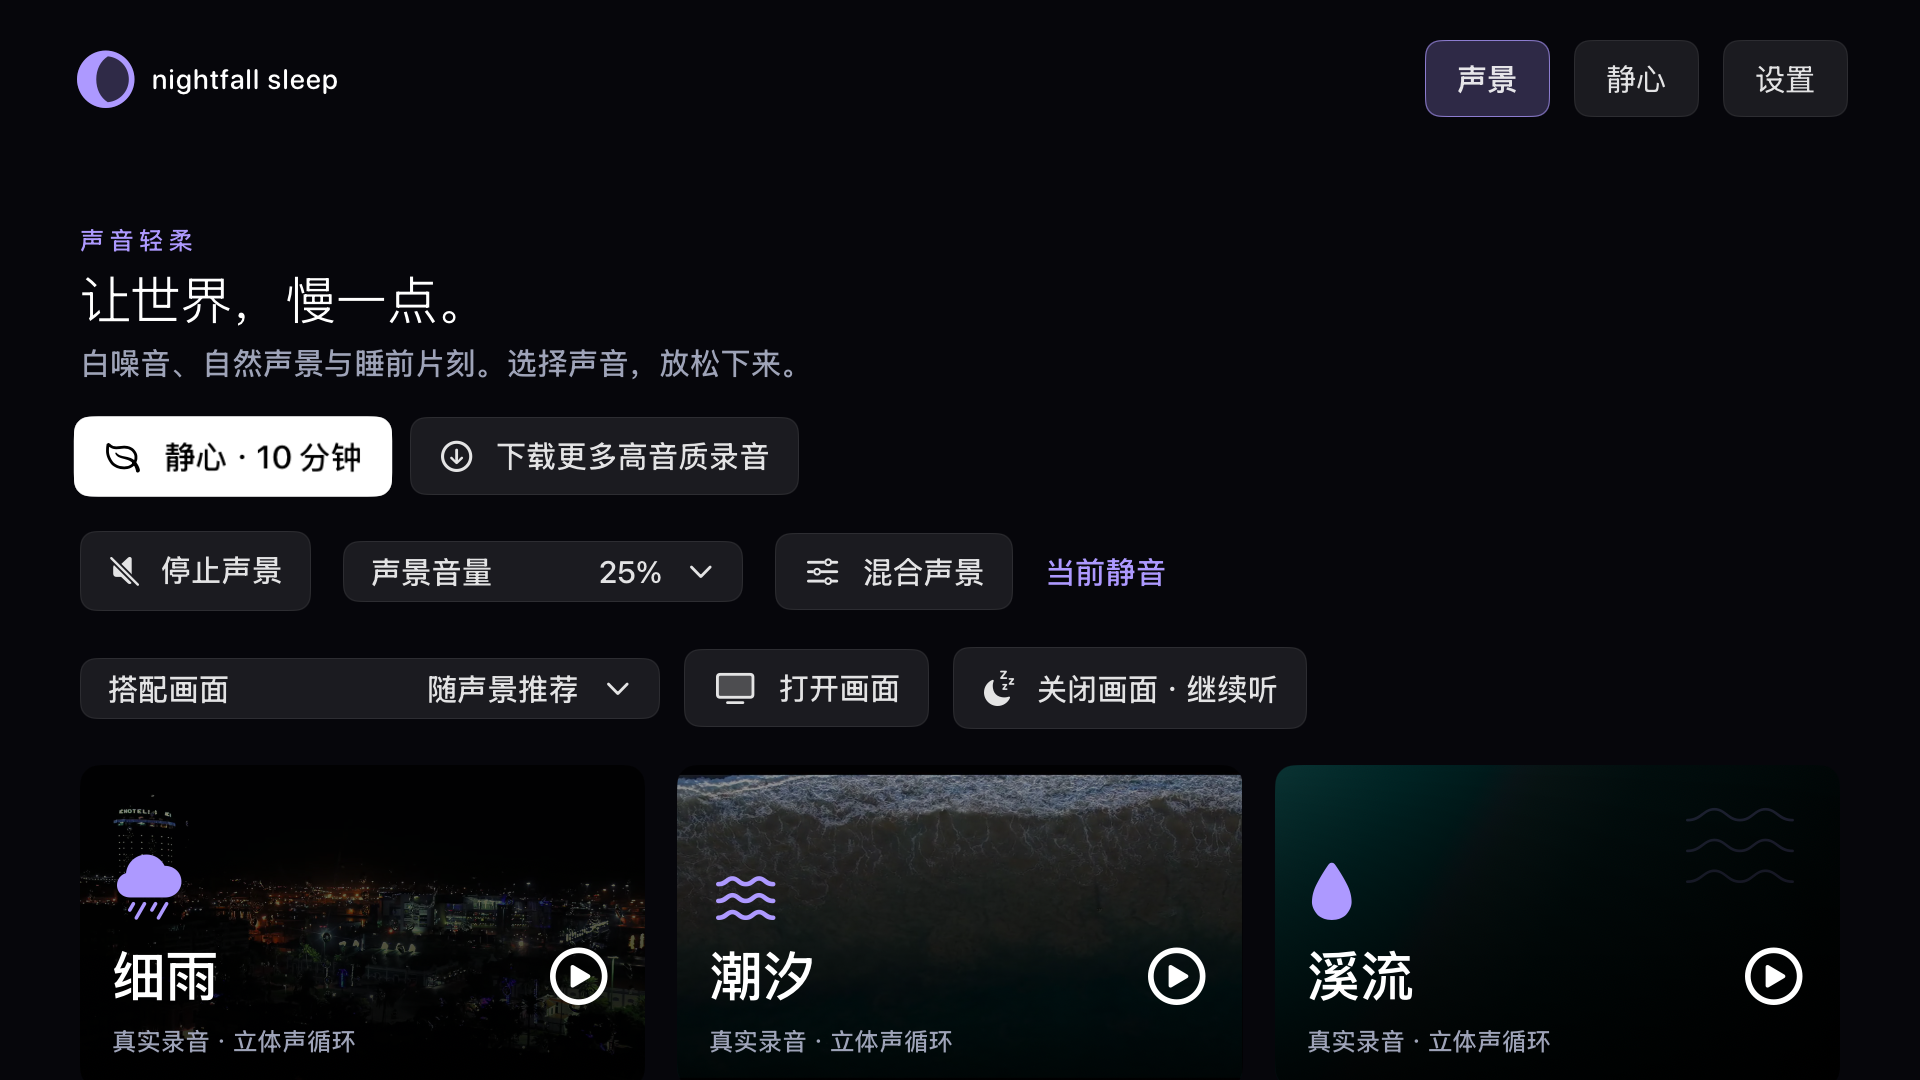
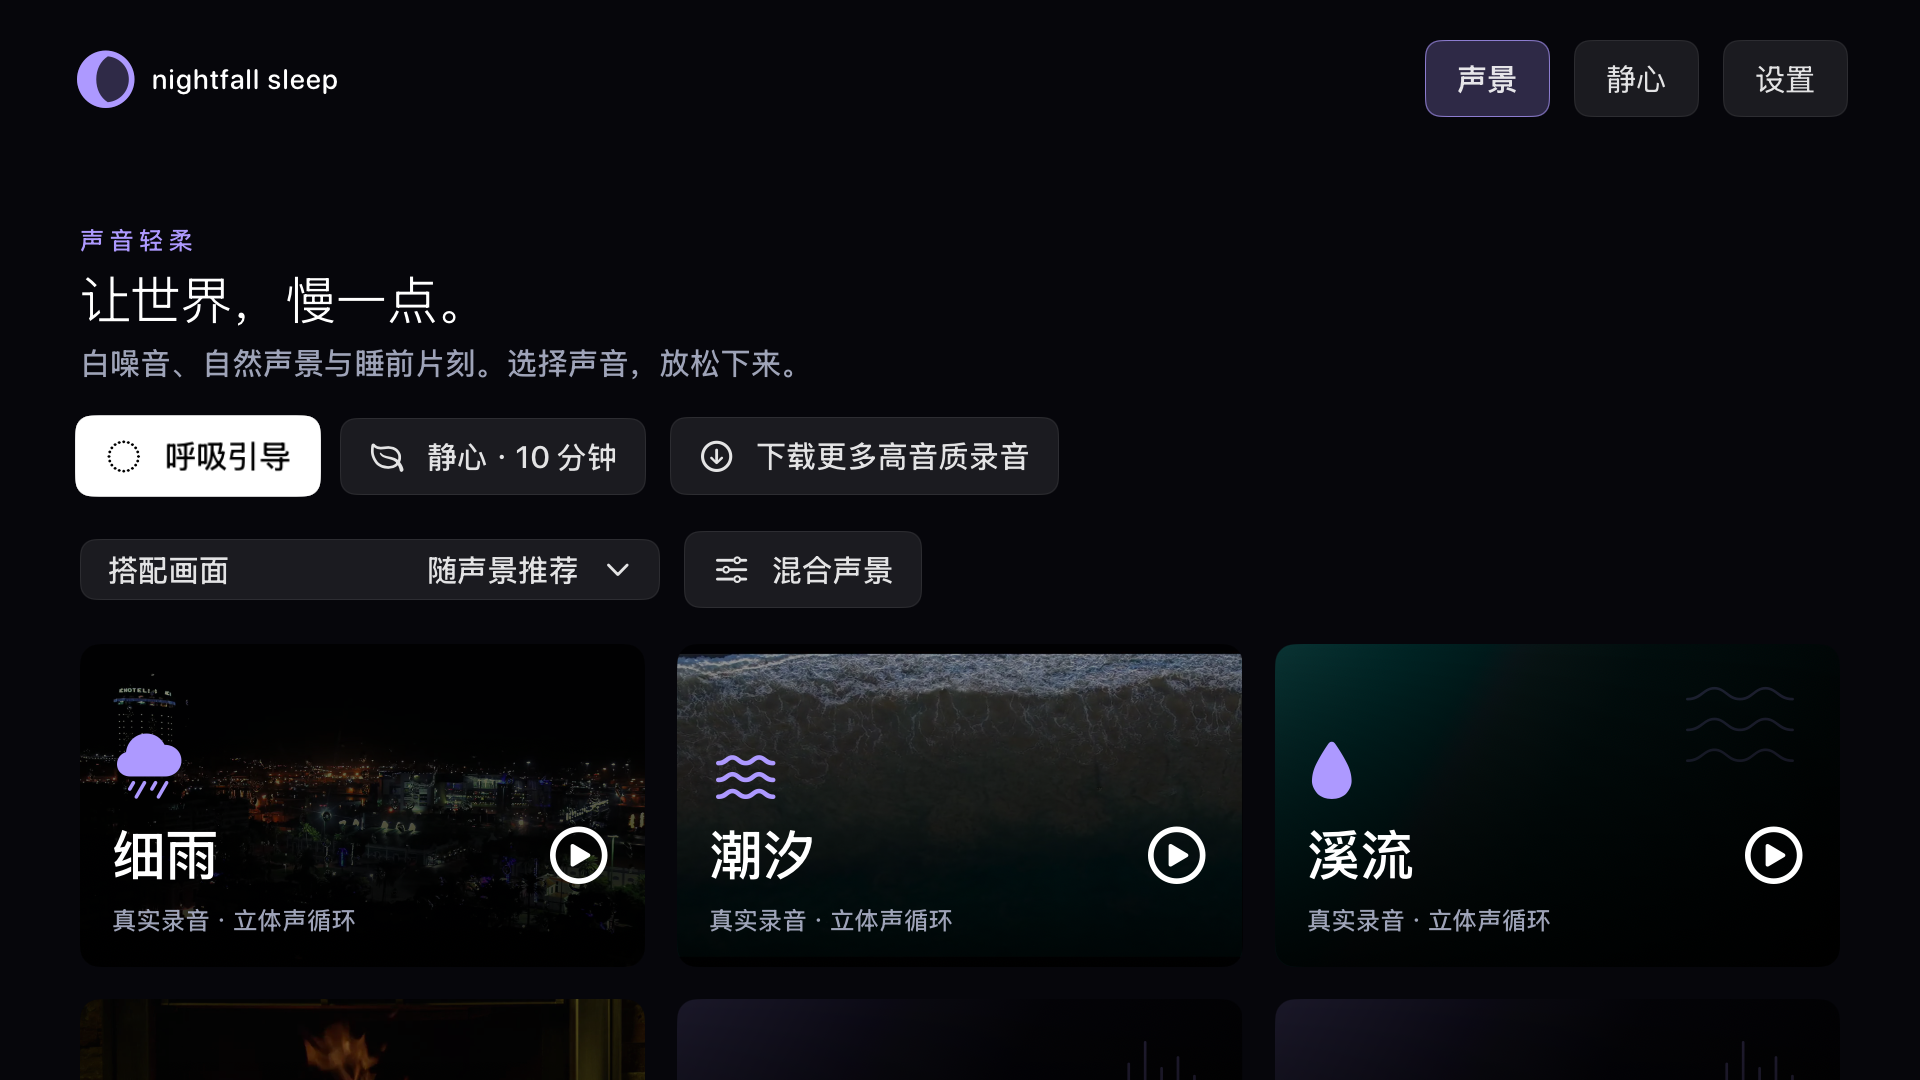
Refresh sleep audio screenshots and final regression results

diff --git a/README.md b/README.md
@@ -1,6 +1,6 @@
 # Nightfall · 白噪音与助眠
 
-An open-source Apple TV app for white noise, nature sounds, self-led meditation and bedtime listening. Mix up to three sounds, start a timed session, and listen with an optional nature background or a black screen. Built with SwiftUI and AVFoundation. Free, offline-first, no account, no ads.
+An open-source Apple TV app for white noise, nature sounds, guided breathing, self-led meditation and bedtime listening. Mix up to three sounds, start a timed session, and listen with an optional nature background or a black screen. Built with SwiftUI and AVFoundation. Free, offline-first, no account, no ads.
 
 原生 Apple TV 白噪音与助眠声音应用：15 种声音（11 种内置、4 种按需下载），含白噪音、粉噪音、棕噪音与真实自然录音。声景首页提供三层混音和 10/20 分钟自主静心；选择环境音即播放声音和实拍背景，控件显示十秒后隐藏，可关闭画面继续聆听。新增 5/10/20 分钟呼吸引导与可选系统语音节奏提示。全部功能与下载免费，无广告、无订阅。不提供语音课程、医疗诊断治疗或睡眠监测。
 
@@ -78,7 +78,7 @@ xcodebuild -project NightfallTV.xcodeproj -scheme NightfallTV \
   CODE_SIGNING_ALLOWED=YES CODE_SIGN_IDENTITY=- DEVELOPMENT_TEAM= test
 ```
 
-1.4.0（10）在本地与[独立云端回归](https://github.com/ZanwingMak/NightfallTV/actions/runs/38837932194)均完成连续 51/51 测试，0 失败、0 跳过，覆盖全部 13 种语言、15 种声音的资源与遥控器操作。以下为历史回归记录：1.3.0（7）已在 Apple TV4K 模拟器完成 **32 个单元测试＋19 个遥控器 UI 测试的联合验收，51 项均有通过记录，0 未解决失败、0 跳过**（2026-10-13）。[云端完整运行](https://github.com/ZanwingMak/NightfallTV/actions/runs/38275774332)为 50 通过、1 个下载瞬态按钮时序失败；修正测试后，[云端下载专项](https://github.com/ZanwingMak/NightfallTV/actions/runs/38287433450)及本地同一专项均 5/5 通过。这是分次联合覆盖，不是一次连续 51/51 记录。测试包括十三语言遥控导航、纯黑逐像素检查、画面定时、三层混音与方案、视频循环、真实 4K／无损资源下载播放删除，以及四档 StoreKit 模拟交易状态。测试详情与实际截图见[回归记录](docs/回归测试.md)。真机听感与长时间播放由用户验收。其中照片网络专项访问本仓库的公开截图，离线执行可追加 `-skip-testing:NightfallTVTests/PersistenceTests/testRemotePhotosAndCache`。
+1.4.0（14）已在[最终源码云端回归](https://github.com/ZanwingMak/NightfallTV/actions/runs/38937349417)完成 **53/53（34 个单元测试＋19 个遥控器 UI 测试）**，0 失败；本地完整回归 53/53，语音选择器视觉调整后本地专项 35/35。覆盖默认声景画面、十秒隐藏、纯黑聆听、呼吸计时与暂停、下载和混音。以下为历史记录：1.4.0（10）在本地与[独立云端回归](https://github.com/ZanwingMak/NightfallTV/actions/runs/38837932194)均完成连续 51/51 测试，0 失败、0 跳过，覆盖全部 13 种语言、15 种声音的资源与遥控器操作。以下为历史回归记录：1.3.0（7）已在 Apple TV4K 模拟器完成 **32 个单元测试＋19 个遥控器 UI 测试的联合验收，51 项均有通过记录，0 未解决失败、0 跳过**（2026-10-13）。[云端完整运行](https://github.com/ZanwingMak/NightfallTV/actions/runs/38275774332)为 50 通过、1 个下载瞬态按钮时序失败；修正测试后，[云端下载专项](https://github.com/ZanwingMak/NightfallTV/actions/runs/38287433450)及本地同一专项均 5/5 通过。这是分次联合覆盖，不是一次连续 51/51 记录。测试包括十三语言遥控导航、纯黑逐像素检查、画面定时、三层混音与方案、视频循环、真实 4K／无损资源下载播放删除，以及四档 StoreKit 模拟交易状态。测试详情与实际截图见[回归记录](docs/回归测试.md)。真机听感与长时间播放由用户验收。其中照片网络专项访问本仓库的公开截图，离线执行可追加 `-skip-testing:NightfallTVTests/PersistenceTests/testRemotePhotosAndCache`。
 
 如需修改工程配置，安装 XcodeGen 后执行 `xcodegen generate`。实拍视频可用 `python3 scripts/import_media.py` 重新导入（需 FFmpeg，遵守来源网站限流）。自然录音可用 `python3 scripts/import_audio.py` 重新导入，有色噪音可用 `python3 scripts/generate_audio.py` 生成（两者需要 FFmpeg，以及 `python3 -m pip install -r scripts/requirements-audio.txt` 安装的 NumPy）；图标用 `swift scripts/generate_assets.swift` 生成。安装到自己的真机或发布时，请在 Xcode Signing 中替换为自己的 Team 和 Bundle ID；`ExportOptions.plist` 是本项目维护者的发布配置示例，其他开发者需替换对应值。
 
